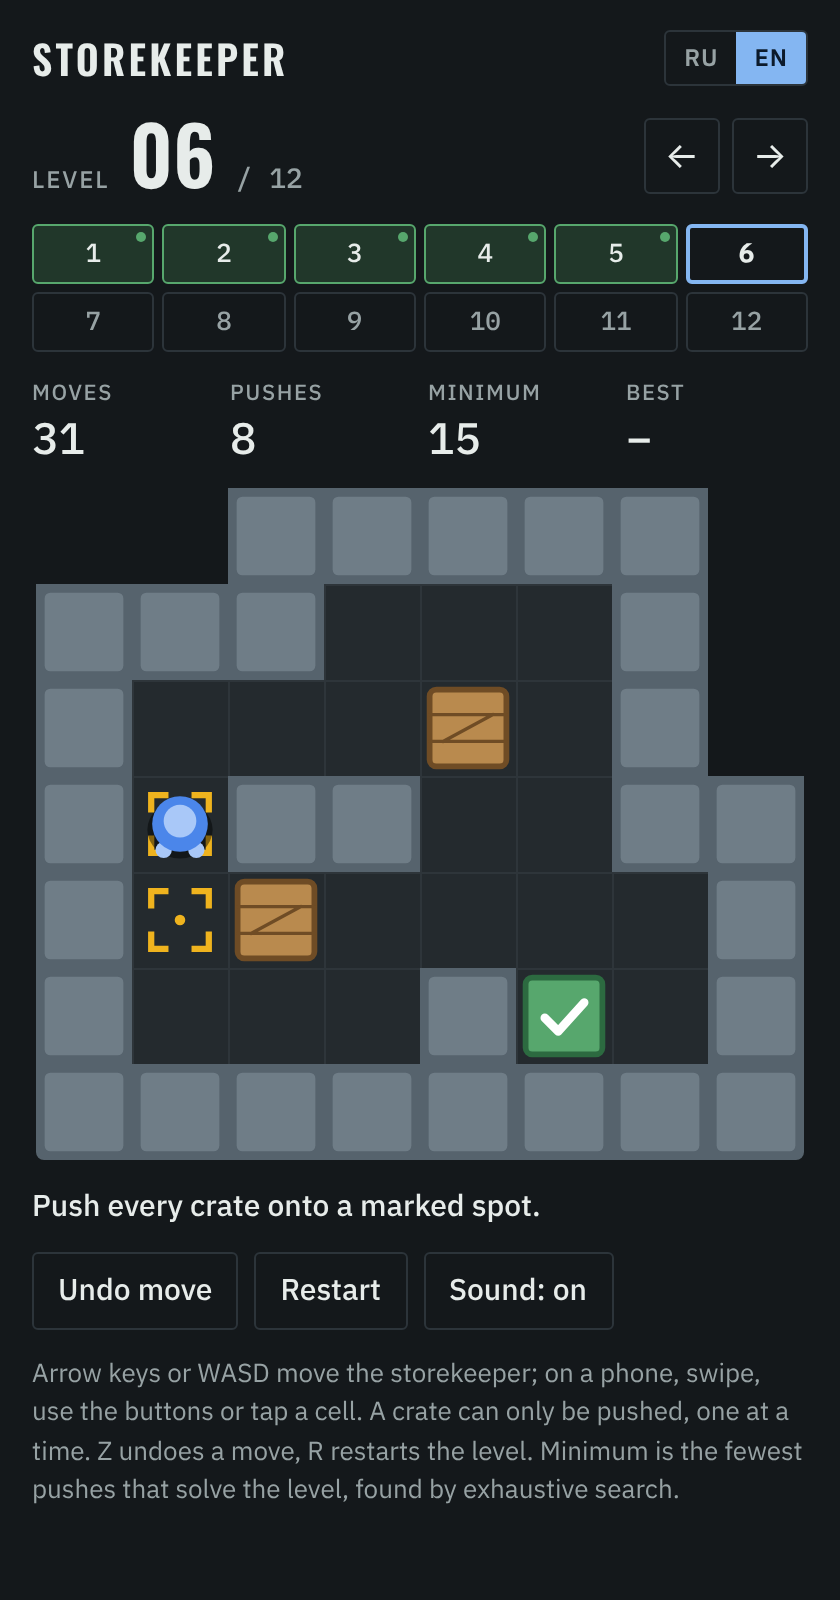
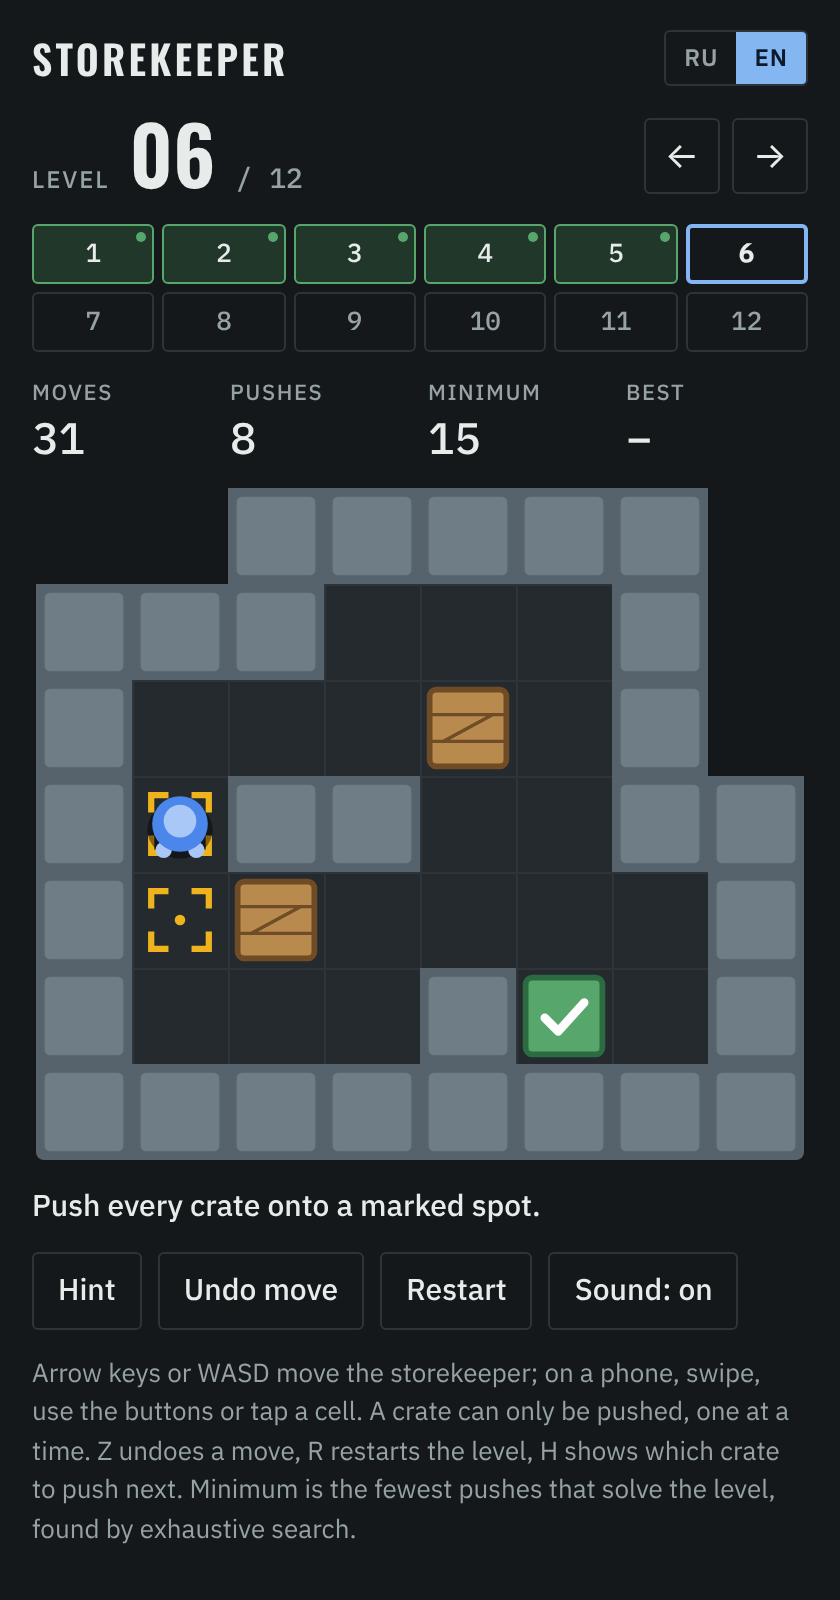
Add hints: show the next push, or how far to go back
A Hint button (and the H key) marks the crate to push next with an
arrow and the cell to stand on with a dashed ring, and says how many
pushes remain. The hint always follows a shortest solution. When the
position can no longer be solved, the game says how many moves to take
back, and a second press takes them back.

The hint runs the generator's reverse search in the browser once per
level and then answers from the stored result. README describes the
feature; the day screenshot now shows a hint.

Claude-Session: https://claude.ai/code/session_011m9jhDwSHMzssbNRw4qgWG

Changed region(s): [[0.031, 0.9062, 0.9286, 0.9688], [0.0619, 0.7812, 0.8357, 0.8438]]

diff --git a/index.html b/index.html
@@ -299,6 +299,7 @@
   </div>
 
   <div class="controls">
+    <button class="btn" id="hint" type="button">Подсказка</button>
     <button class="btn" id="undo" type="button">Отменить ход</button>
     <button class="btn" id="restart" type="button">Заново</button>
     <button class="btn" id="sound" type="button" aria-pressed="true">Звук: вкл</button>
@@ -359,7 +360,13 @@
       nextLevel: 'Следующий уровень', again: 'Пройти ещё раз',
       undo: 'Отменить ход', restart: 'Заново', soundOn: 'Звук: вкл', soundOff: 'Звук: выкл',
       up: 'Вверх', down: 'Вниз', left: 'Влево', right: 'Вправо',
-      note: 'Стрелки или WASD двигают кладовщика; на телефоне работают свайпы, кнопки и нажатие на клетку. Ящик можно только толкать, по одному. Z отменяет ход, R начинает уровень заново. Минимум — наименьшее число толчков, которым решается уровень; оно найдено полным перебором.'
+      hint: 'Подсказка', thinking: 'Ищу решение…',
+      hintPush: 'Толкните выделенный ящик {dir}. Толчков до решения: {n}.',
+      dir_u: 'вверх', dir_d: 'вниз', dir_l: 'влево', dir_r: 'вправо',
+      dead: 'Отсюда уровень не решить. Вернитесь на {n} {mv}.',
+      rewind: 'Вернуться на {n} {mv}', rewound: 'Позиция возвращена. Отсюда уровень решается.',
+      hintOff: 'Для этого уровня подсказка недоступна.',
+      note: 'Стрелки или WASD двигают кладовщика; на телефоне работают свайпы, кнопки и нажатие на клетку. Ящик можно только толкать, по одному. Z отменяет ход, R начинает уровень заново, H показывает, какой ящик толкнуть следующим. Минимум — наименьшее число толчков, которым решается уровень; оно найдено полным перебором.'
     },
     en: {
       title: 'Storekeeper', level: 'Level', prev: 'Previous level', next: 'Next level',
@@ -374,7 +381,13 @@
       nextLevel: 'Next level', again: 'Play again',
       undo: 'Undo move', restart: 'Restart', soundOn: 'Sound: on', soundOff: 'Sound: off',
       up: 'Up', down: 'Down', left: 'Left', right: 'Right',
-      note: 'Arrow keys or WASD move the storekeeper; on a phone, swipe, use the buttons or tap a cell. A crate can only be pushed, one at a time. Z undoes a move, R restarts the level. Minimum is the fewest pushes that solve the level, found by exhaustive search.'
+      hint: 'Hint', thinking: 'Looking for a solution…',
+      hintPush: 'Push the highlighted crate {dir}. Pushes to go: {n}.',
+      dir_u: 'up', dir_d: 'down', dir_l: 'left', dir_r: 'right',
+      dead: 'The level cannot be solved from here. Go back {n} {mv}.',
+      rewind: 'Go back {n} {mv}', rewound: 'Position restored. The level can be solved from here.',
+      hintOff: 'No hint is available for this level.',
+      note: 'Arrow keys or WASD move the storekeeper; on a phone, swipe, use the buttons or tap a cell. A crate can only be pushed, one at a time. Z undoes a move, R restarts the level, H shows which crate to push next. Minimum is the fewest pushes that solve the level, found by exhaustive search.'
     }
   };
   // a saved choice wins; otherwise Russian for anyone who lists it among their browser languages
@@ -386,9 +399,18 @@
     return 'en';
   }
   var lang = pickLang();
+  function movesWord(n) {
+    if (lang === 'en') return n === 1 ? 'move' : 'moves';
+    var a = n % 10, b = n % 100;
+    if (a === 1 && b !== 11) return 'ход';
+    if (a >= 2 && a <= 4 && (b < 12 || b > 14)) return 'хода';
+    return 'ходов';
+  }
   function tr(key, params) {
     var text = STR[lang][key];
-    if (params) for (var k in params) text = text.replace('{' + k + '}', params[k]);
+    if (!params) return text;
+    for (var k in params) text = text.replace('{' + k + '}', k === 'dir' ? STR[lang]['dir_' + params[k]] : params[k]);
+    if (typeof params.n === 'number') text = text.replace('{mv}', movesWord(params.n));
     return text;
   }
   var lastSay = ['prompt', null];
@@ -399,7 +421,7 @@
   function readTokens() {
     var cs = getComputedStyle(document.documentElement);
     ['floor', 'floor-line', 'wall', 'wall-top', 'mark', 'crate', 'crate-edge', 'done', 'done-edge', 'on-done',
-     'keeper', 'keeper-top', 'shadow'].forEach(function (k) { T[k] = cs.getPropertyValue('--' + k).trim(); });
+     'keeper', 'keeper-top', 'shadow', 'accent', 'on-accent'].forEach(function (k) { T[k] = cs.getPropertyValue('--' + k).trim(); });
   }
 
   /* ---------- sound ---------- */
@@ -435,6 +457,11 @@
   var records = loadJson('sklad-records', {});
   var lastWin = null;
   var cell = 48, dpr = 1;
+  var OFF = [1, -1, 1, -1];  // cell offsets for right, left, down, up; set per level
+  var depthCache = {};       // level -> Map from position to the fewest pushes that solve it
+  var hintState = null;      // { box, d, stand } for the push being suggested
+  var rewindN = 0;           // moves to take back when the position cannot be solved
+  var clockT = 0;
   var DIR = { u: [0, -1], d: [0, 1], l: [-1, 0], r: [1, 0] };
 
   function letterOf(dx, dy, pushed) {
@@ -482,6 +509,8 @@
       }
     }
     history = []; moves = 0; pushes = 0; solved = false; queue = []; anim = null; face = [0, 1]; lastWin = null;
+    OFF = [1, -1, W, -W];
+    hintState = null; rewindN = 0; paintHintBtn();
     elOver.hidden = true;
     if (replay) {
       for (var k = 0; k < replay.length && !solved; k++) {
@@ -520,10 +549,12 @@
     }
     history.push({ dx: dx, dy: dy, k: k });
     moves++;
+    if (k >= 0) hintState = null;
+    if (rewindN) { rewindN = 0; paintHintBtn(); }
     if (!silent && !reduceMotion) anim = { t: 0, fx: px, fy: py, k: k };
     px = x; py = y;
     if (!silent) {
-      if (lastSay[0] !== 'prompt') say('prompt');
+      if (lastSay[0] !== 'prompt' && !(hintState && lastSay[0] === 'hintPush')) say('prompt');
       if (k >= 0) tone(goal[boxes[k]] ? 520 : 190, 0.09, 'triangle', 0.07);
     }
     if (k >= 0 && allOnGoals()) win(silent);
@@ -531,9 +562,7 @@
     return k >= 0 ? 2 : 1;
   }
 
-  function undo() {
-    if (solved || !history.length) return;
-    queue = []; anim = null;
+  function undoOne() {
     var h = history.pop();
     if (h.k >= 0) {
       var from = boxes[h.k], back = py * W + px;
@@ -541,8 +570,158 @@
     }
     px -= h.dx; py -= h.dy; moves--;
     face = [h.dx, h.dy];
+  }
+  function undo() {
+    if (solved || !history.length) return;
+    queue = []; anim = null;
+    undoOne();
+    clearHint();
     say('prompt');
     paintHud(); persist();
+  }
+
+  /* ---------- hints ---------- */
+  // Walks from a cell through free floor. Returns the smallest reached cell, which names the region;
+  // floodCells and floodMark hold what was reached.
+  var floodCells = [], floodMark = null;
+  function flood(bset, from) {
+    var min = from, c, i, t;
+    if (!floodMark || floodMark.length !== W * H) floodMark = new Uint8Array(W * H); else floodMark.fill(0);
+    floodCells.length = 0; floodCells.push(from); floodMark[from] = 1;
+    for (var h = 0; h < floodCells.length; h++) {
+      c = floodCells[h];
+      for (i = 0; i < 4; i++) {
+        t = c + OFF[i];
+        if (inside[t] && !floodMark[t] && !bset[t]) { floodMark[t] = 1; floodCells.push(t); if (t < min) min = t; }
+      }
+    }
+    return min;
+  }
+  function numAsc(a, b) { return a - b; }
+  function posKey(boxList, bset, keeperCell) {
+    return boxList.slice().sort(numAsc).join(',') + '|' + flood(bset, keeperCell);
+  }
+
+  // Searches backwards from the solved position by pulling crates. Every position it reaches can be
+  // solved, and the search depth is the fewest pushes that do it. Returns null if the level is too big.
+  function buildDepths() {
+    var N = W * H, depths = new Map(), qB = [], qC = [], qD = [], bset = new Uint8Array(N), done = new Uint8Array(N);
+    var goals = [], i, h, m;
+    for (i = 0; i < N; i++) if (goal[i]) { goals.push(i); bset[i] = 1; }
+    for (i = 0; i < N; i++) {
+      if (!inside[i] || bset[i] || done[i]) continue;
+      m = flood(bset, i);
+      for (h = 0; h < floodCells.length; h++) done[floodCells[h]] = 1;
+      depths.set(goals.join(',') + '|' + m, 0); qB.push(goals); qC.push(m); qD.push(0);
+    }
+    for (h = 0; h < qB.length; h++) {
+      if (depths.size > 700000) return null;
+      var list = qB[h], d0 = qD[h];
+      bset.fill(0);
+      for (i = 0; i < list.length; i++) bset[list[i]] = 1;
+      flood(bset, qC[h]);
+      var cells = floodCells.slice();
+      for (var ci = 0; ci < cells.length; ci++) {
+        var p = cells[ci];
+        for (var di = 0; di < 4; di++) {
+          var d = OFF[di], b = p - d, t = p + d;   // crate behind the keeper, free cell ahead
+          if (!bset[b] || !inside[t] || bset[t]) continue;
+          var nb = list.slice(); nb[nb.indexOf(b)] = p; nb.sort(numAsc);
+          bset[b] = 0; bset[p] = 1;
+          m = flood(bset, t);
+          bset[b] = 1; bset[p] = 0;
+          var key = nb.join(',') + '|' + m;
+          if (depths.has(key)) continue;
+          depths.set(key, d0 + 1); qB.push(nb); qC.push(m); qD.push(d0 + 1);
+        }
+      }
+    }
+    return depths;
+  }
+
+  // What to do next from the current position: a push that keeps the solution shortest, or how far to
+  // go back when the position can no longer be solved.
+  function computeHint() {
+    var depths = depthCache[levelIdx];
+    if (depths === undefined) depths = depthCache[levelIdx] = buildDepths();
+    if (!depths) return { type: 'off' };
+    var N = W * H, bset = new Uint8Array(N), keeper = py * W + px, i, j;
+    for (i = 0; i < boxes.length; i++) bset[boxes[i]] = 1;
+    var here = depths.get(posKey(boxes, bset, keeper));
+
+    if (here === undefined) {
+      // step back through the moves until the position is one the search knows
+      var copy = boxes.slice(), kp = keeper, n = 0;
+      for (i = history.length - 1; i >= 0; i--) {
+        var past = history[i];
+        n++;
+        if (past.k >= 0) copy[past.k] = kp;
+        kp -= past.dy * W + past.dx;
+        if (past.k < 0) continue;
+        bset.fill(0);
+        for (j = 0; j < copy.length; j++) bset[copy[j]] = 1;
+        if (depths.has(posKey(copy, bset, kp))) return { type: 'dead', n: n };
+      }
+      return { type: 'dead', n: history.length };
+    }
+
+    // walking distance from the keeper to every cell it can reach
+    var dist = new Int16Array(N), q = [keeper];
+    for (i = 0; i < N; i++) dist[i] = -1;
+    dist[keeper] = 0;
+    for (var h = 0; h < q.length; h++) for (i = 0; i < 4; i++) {
+      var t = q[h] + OFF[i];
+      if (inside[t] && !bset[t] && dist[t] < 0) { dist[t] = dist[q[h]] + 1; q.push(t); }
+    }
+    var best = null;
+    for (var k = 0; k < boxes.length; k++) for (i = 0; i < 4; i++) {
+      var d = OFF[i], b = boxes[k], stand = b - d, to = b + d;
+      if (!(dist[stand] >= 0) || !inside[to] || bset[to]) continue;
+      var nb = boxes.slice(); nb[k] = to;
+      bset[b] = 0; bset[to] = 1;
+      var after = depths.get(posKey(nb, bset, b));
+      bset[b] = 1; bset[to] = 0;
+      if (after !== here - 1) continue;
+      if (!best || dist[stand] < best.walk) best = { type: 'push', box: b, d: d, stand: stand, walk: dist[stand], left: here };
+    }
+    return best || { type: 'off' };
+  }
+
+  function paintHintBtn() {
+    var b = $('hint');
+    b.textContent = rewindN ? tr('rewind', { n: rewindN }) : tr('hint');
+    b.classList.toggle('primary', !!rewindN);
+  }
+  function clearHint() { hintState = null; rewindN = 0; paintHintBtn(); }
+
+  function askHint() {
+    if (solved) return;
+    queue = []; anim = null;
+    if (rewindN) {
+      for (var n = rewindN; n > 0 && history.length; n--) undoOne();
+      clearHint();
+      say('rewound');
+      paintHud(); persist();
+      return;
+    }
+    var asked = levelIdx;
+    function run() {
+      if (asked !== levelIdx || solved) return;
+      var r = computeHint();
+      hintState = null; rewindN = 0;
+      if (r.type === 'push') {
+        hintState = r;
+        say('hintPush', { dir: r.d === 1 ? 'r' : r.d === -1 ? 'l' : r.d === W ? 'd' : 'u', n: r.left });
+      } else if (r.type === 'dead') {
+        rewindN = r.n;
+        say('dead', { n: r.n });
+      } else {
+        say('hintOff');
+      }
+      paintHintBtn();
+    }
+    // the first hint on a level has to search it; let the status line show before that starts
+    if (depthCache[levelIdx] === undefined) { say('thinking'); setTimeout(run, 30); } else run();
   }
 
   function win(silent) {
@@ -612,6 +791,7 @@
     $('bestL').textContent = tr('best');
     cv.setAttribute('aria-label', tr('board'));
     $('undo').textContent = tr('undo');
+    paintHintBtn();
     $('restart').textContent = tr('restart');
     $('note').textContent = tr('note');
     var pads = $('pad').children, names = { u: 'up', d: 'down', l: 'left', r: 'right' };
@@ -683,6 +863,36 @@
     ctx.fillStyle = T['keeper-top'];
     ctx.beginPath(); ctx.arc(cx0 - fx * c * 0.03, cy0 - fy * c * 0.03, c * 0.17, 0, 6.2832); ctx.fill();
   }
+  function drawHint() {
+    var c = cell, h = hintState;
+    var dx = h.d === 1 ? 1 : h.d === -1 ? -1 : 0, dy = h.d === W ? 1 : h.d === -W ? -1 : 0;
+    var sx = (h.stand % W + 0.5) * c, sy = (((h.stand / W) | 0) + 0.5) * c;
+    var bx = (h.box % W + 0.5) * c, by = (((h.box / W) | 0) + 0.5) * c;
+    ctx.save();
+    ctx.globalAlpha = reduceMotion ? 1 : 0.6 + 0.4 * Math.abs(Math.sin(clockT * 3.2));
+    // where to stand
+    ctx.strokeStyle = T.accent;
+    ctx.lineWidth = Math.max(2, c * 0.06);
+    ctx.setLineDash([c * 0.12, c * 0.09]);
+    ctx.beginPath(); ctx.arc(sx, sy, c * 0.36, 0, 6.2832); ctx.stroke();
+    ctx.setLineDash([]);
+    // which way the crate goes: a light underlay keeps the arrow readable on the crate
+    var x1 = bx - dx * c * 0.2, y1 = by - dy * c * 0.2, x2 = bx + dx * c * 0.62, y2 = by + dy * c * 0.62;
+    var hw = c * 0.17, hl = c * 0.24;
+    function arrow(extra) {
+      ctx.lineWidth = Math.max(3, c * 0.11) + extra;
+      ctx.lineCap = 'round'; ctx.lineJoin = 'round';
+      ctx.beginPath();
+      ctx.moveTo(x1, y1); ctx.lineTo(x2, y2);
+      ctx.moveTo(x2 - dx * hl - dy * hw, y2 - dy * hl + dx * hw);
+      ctx.lineTo(x2, y2);
+      ctx.lineTo(x2 - dx * hl + dy * hw, y2 - dy * hl - dx * hw);
+      ctx.stroke();
+    }
+    ctx.strokeStyle = T['on-accent']; arrow(Math.max(3, c * 0.09));
+    ctx.strokeStyle = T.accent; arrow(0);
+    ctx.restore();
+  }
   function draw() {
     var c = cell, x, y, id;
     ctx.setTransform(dpr, 0, 0, dpr, 0, 0);
@@ -719,6 +929,7 @@
       if (anim && anim.k === k && last) { bx -= last.dx * (1 - f); by -= last.dy * (1 - f); }
       drawCrate(bx * c, by * c, !!goal[boxes[k]] && !(anim && anim.k === k && f < 1));
     }
+    if (hintState) drawHint();
     var kx = px, ky = py;
     if (anim) { kx = anim.fx + (px - anim.fx) * f; ky = anim.fy + (py - anim.fy) * f; }
     drawKeeper(kx * c, ky * c);
@@ -729,6 +940,7 @@
   function frame(ts) {
     var dt = Math.min(0.05, (ts - lastTs) / 1000 || 0);
     lastTs = ts;
+    clockT += dt;
     if (anim) { anim.t += dt; if (anim.t >= 0.085) anim = null; }
     if (queue.length && !anim) {
       walkClock += dt;
@@ -798,13 +1010,15 @@
     var dir = map[e.code];
     if (dir) { e.preventDefault(); go(DIR[dir][0], DIR[dir][1]); return; }
     if (e.code === 'KeyZ' || e.code === 'Backspace') { e.preventDefault(); undo(); return; }
-    if (e.code === 'KeyR') { e.preventDefault(); loadLevel(levelIdx, ''); }
+    if (e.code === 'KeyR') { e.preventDefault(); loadLevel(levelIdx, ''); return; }
+    if (e.code === 'KeyH') { e.preventDefault(); askHint(); }
   });
 
   $('pad').addEventListener('click', function (e) {
     var b = e.target.closest('button[data-dir]');
     if (b) { var d = DIR[b.getAttribute('data-dir')]; go(d[0], d[1]); }
   });
+  $('hint').addEventListener('click', askHint);
   $('undo').addEventListener('click', undo);
   $('restart').addEventListener('click', function () { loadLevel(levelIdx, ''); });
   $('prev').addEventListener('click', function () { loadLevel(levelIdx - 1, ''); });

diff --git a/README.md b/README.md
@@ -7,11 +7,11 @@
 **[Играть в браузере](https://posoxai.github.io/StorekeeperGame/)**
 
 <p>
-  <img src="screenshots/day.png" width="300" alt="Кладовщик в светлой теме: шестой уровень, один ящик уже стоит на месте">
+  <img src="screenshots/day.png" width="300" alt="Кладовщик в светлой теме: шестой уровень, стрелка подсказки на ящике">
   <img src="screenshots/night.png" width="300" alt="The same position in the dark theme with the English interface">
 </p>
 
-Слева светлая тема с русским интерфейсом, справа тёмная с английским.
+Слева светлая тема с русским интерфейсом и включённой подсказкой, справа тёмная с английским.
 
 ## Правила
 
@@ -63,9 +63,17 @@ node tools/verify-levels.js
 
 ## Управление
 
-- Клавиатура: стрелки или WASD. Z или Backspace отменяет ход, R начинает уровень заново.
+- Клавиатура: стрелки или WASD. Z или Backspace отменяет ход, R начинает уровень заново, H показывает подсказку.
 - Телефон: свайп по полю, кнопки-стрелки под полем или нажатие на клетку. К свободной клетке кладовщик дойдёт сам кратчайшим путём.
 - Мышь: нажатие на соседнюю клетку делает шаг, на дальнюю — ведёт туда кладовщика.
+
+### Подсказка
+
+Кнопка «Подсказка» или клавиша H показывает следующий толчок: стрелка на ящике говорит, куда его двигать, а пунктирный круг — где для этого встать. Рядом написано, сколько толчков осталось до решения. Подсказка всегда ведёт по кратчайшему пути, так что по одним подсказкам уровень решается ровно в минимум толчков.
+
+Если позицию уже нельзя решить, игра говорит, на сколько ходов нужно вернуться. Второе нажатие на ту же кнопку возвращает их само.
+
+Подсказка считается прямо в браузере тем же обратным перебором, что и в генераторе. Первый запрос на уровне занимает доли секунды, следующие отвечают сразу.
 
 Игра считает ходы и толчки и запоминает лучший результат по каждому уровню. Текущая позиция, решённые уровни и рекорды хранятся в браузере игрока.
 
